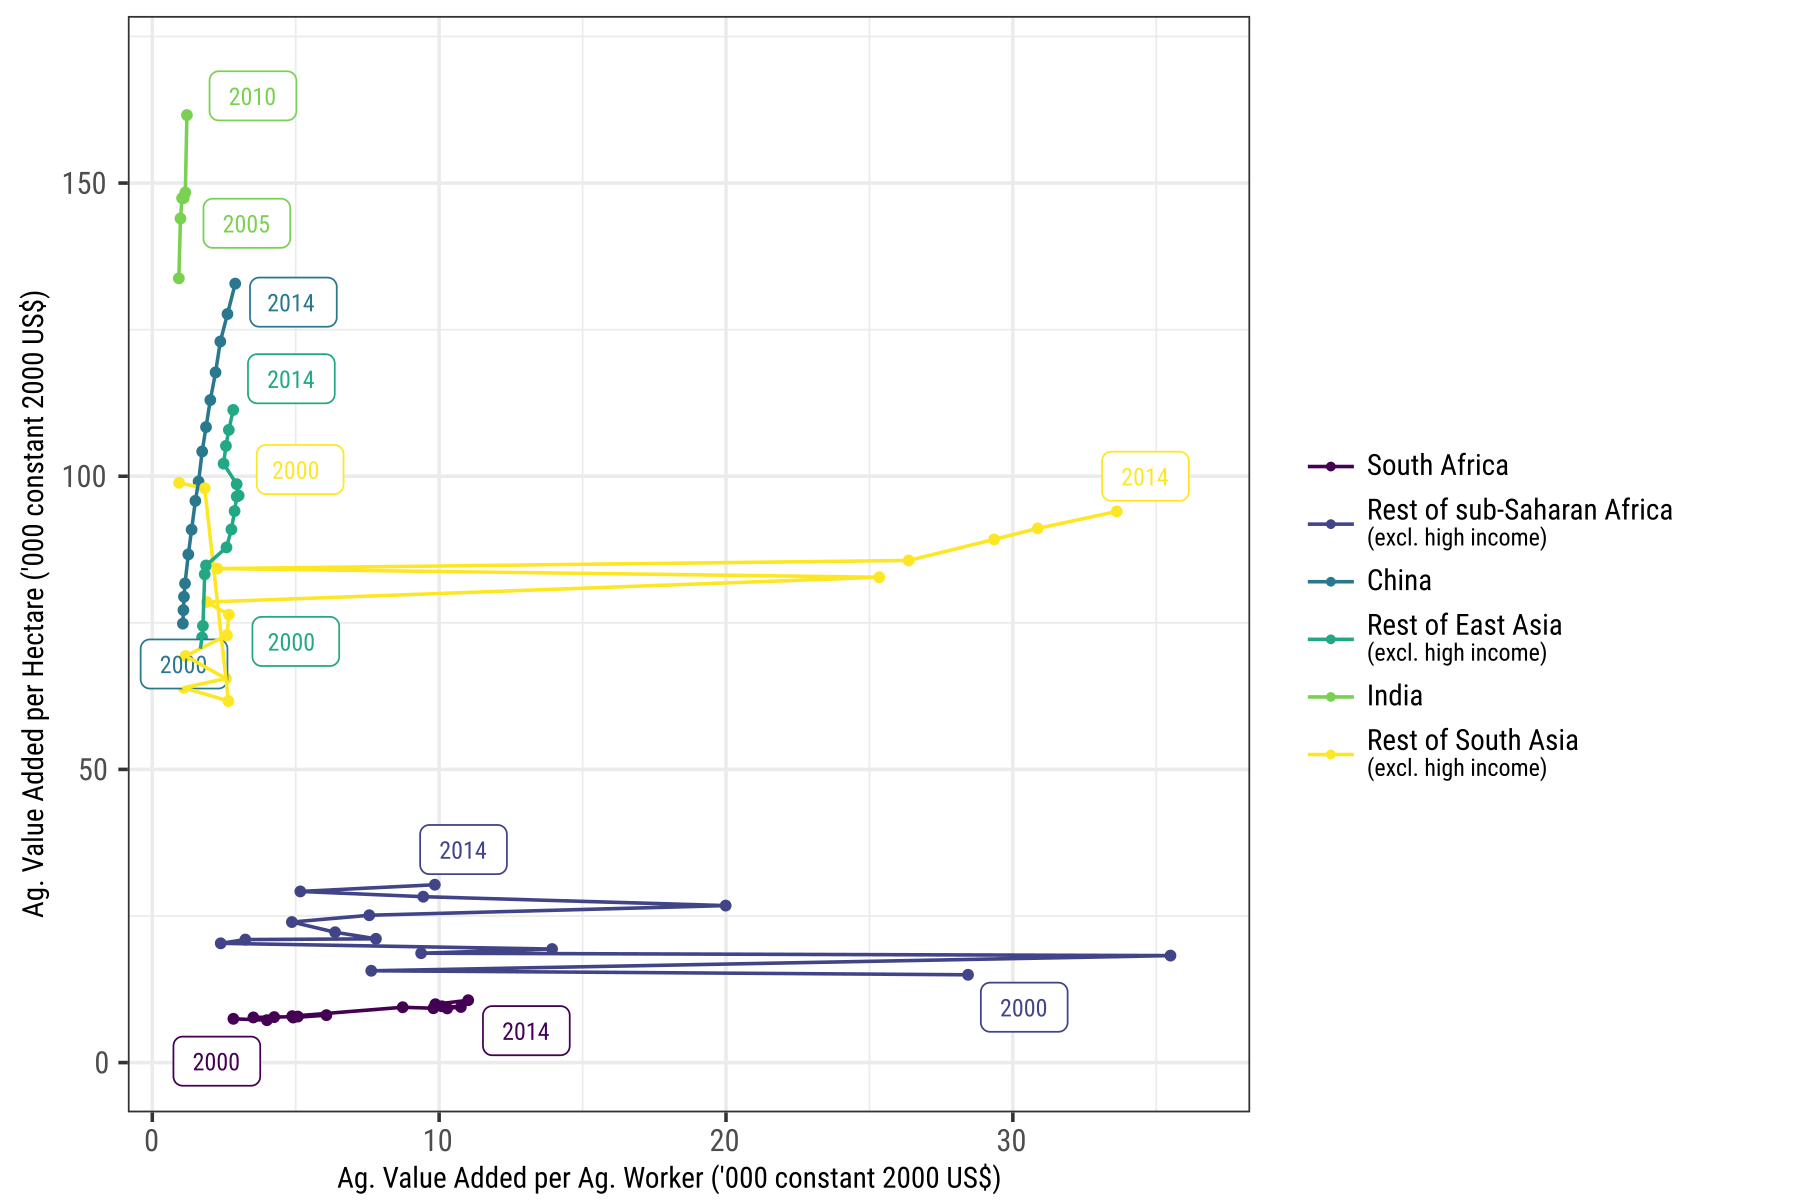
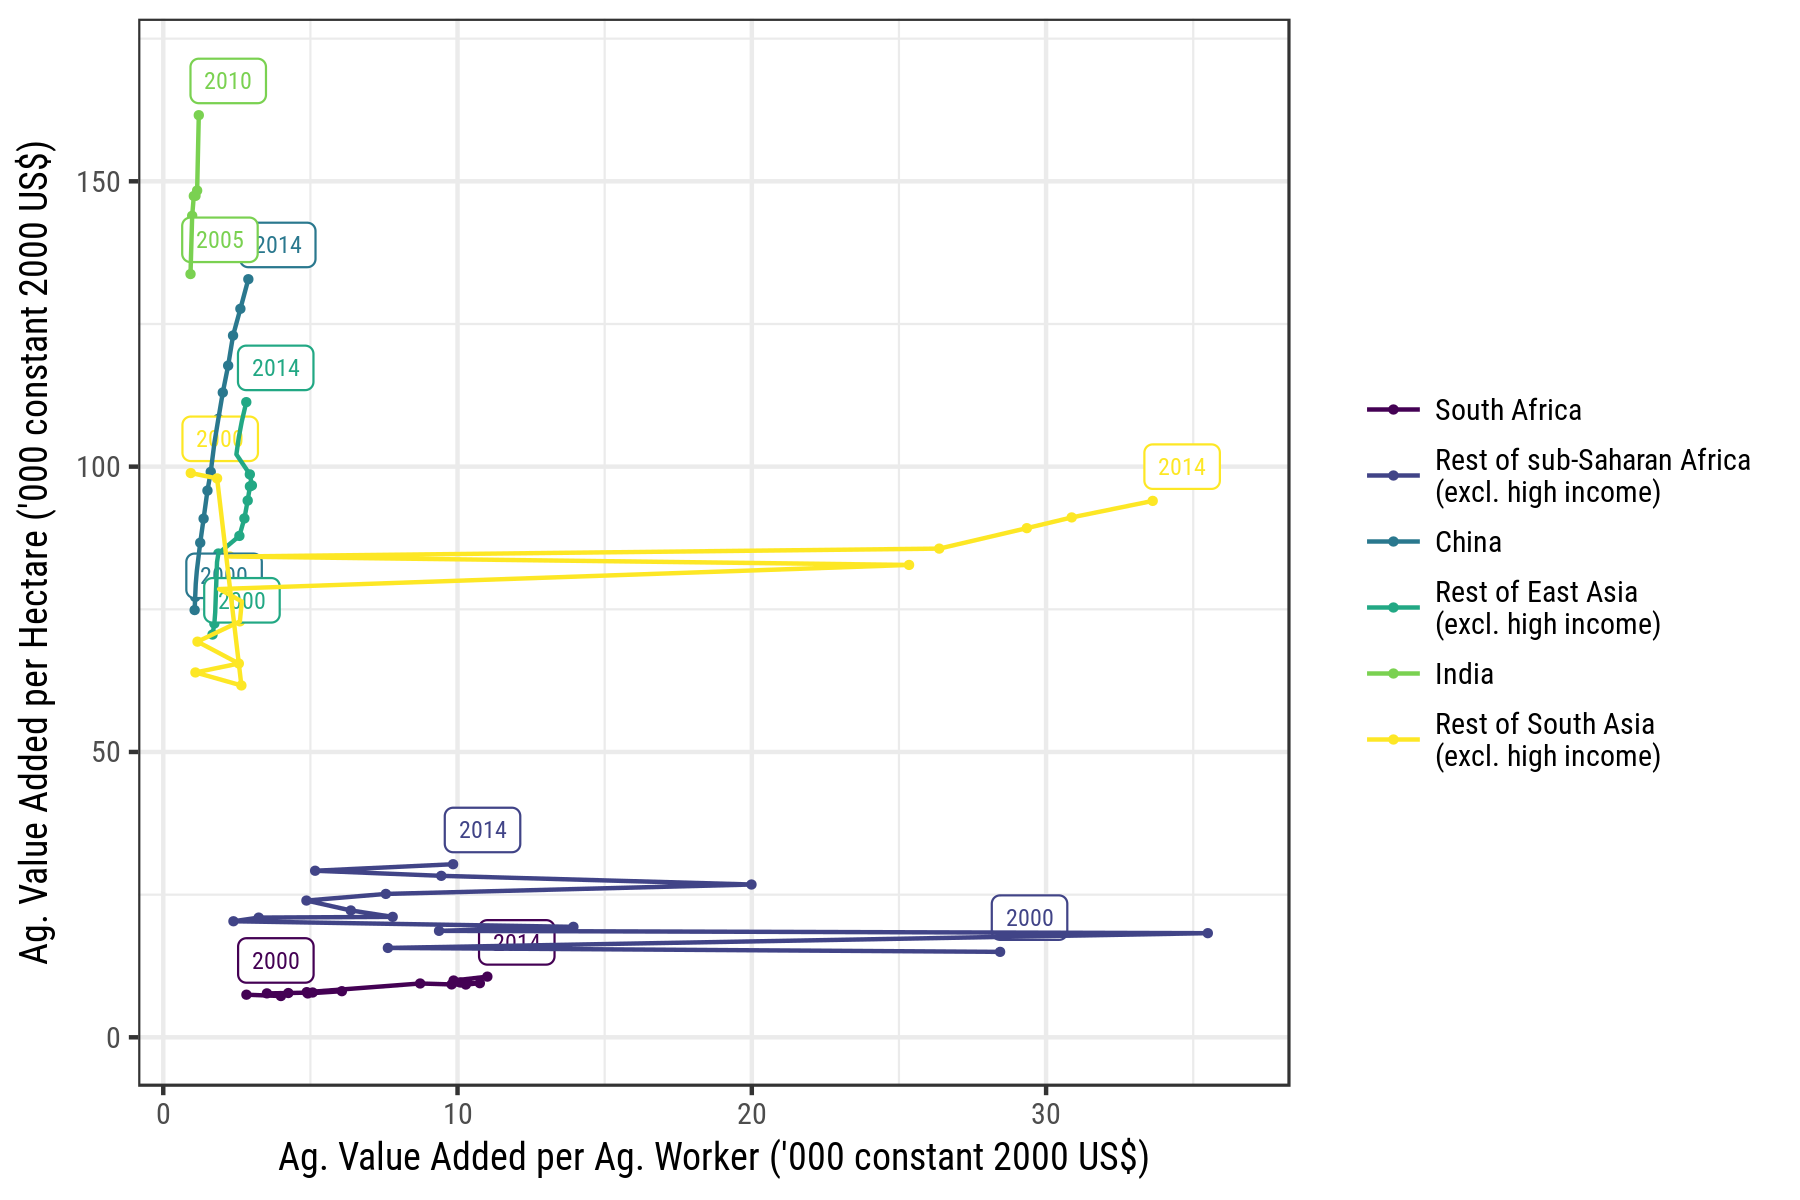
added macro trends

diff --git a/docs/trends-in-macro-indicators.html b/docs/trends-in-macro-indicators.html
@@ -143,7 +143,7 @@ Fig. 5.2: Regional Trends in Sectoral Value Added (1990-2015) Source: WDI.
 </div>
 <p>Note that India is missing multiple years of agricultural employment statistics. Simple linear interpolation is used to impute these missing values.</p>
 <div class="figure"><span id="fig:agg-rutt"></span>
-<img src="fig/agg-rutt-1.png" alt="Trends in Land and Labor Productivity (2000-2014). Source: WDI." width="576" />
+<img src="fig/agg-rutt-1.png" alt="Trends in Land and Labor Productivity (2000-2014). Source: WDI." width="900" />
 <p class="caption">
 Fig. 5.3: Trends in Land and Labor Productivity (2000-2014). Source: WDI.
 </p>
